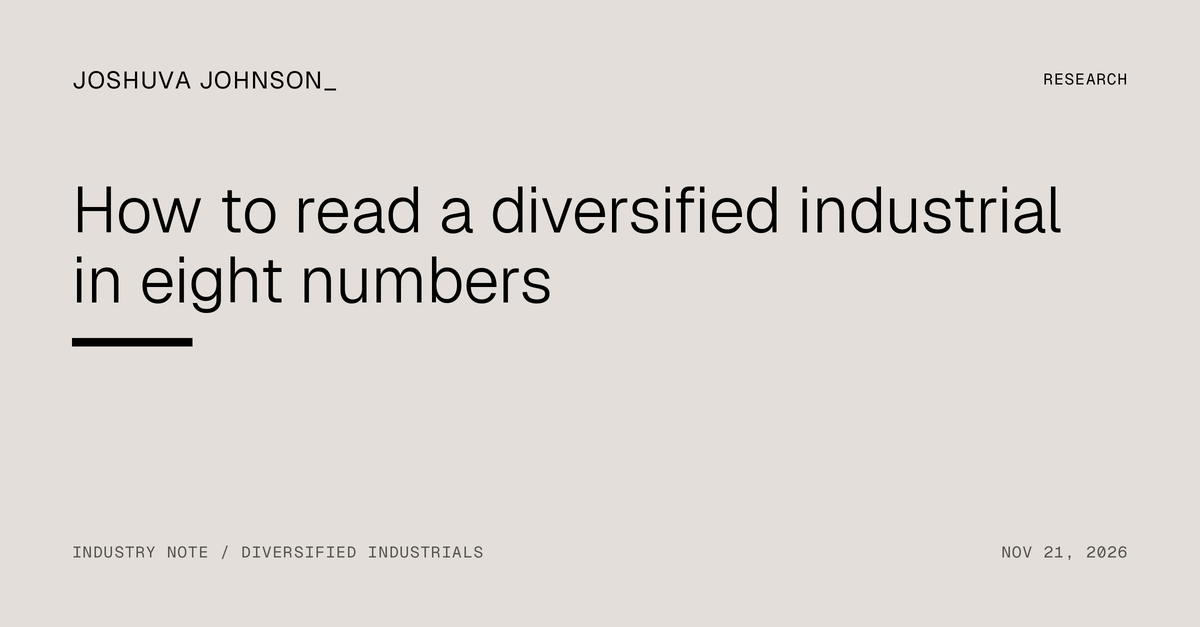
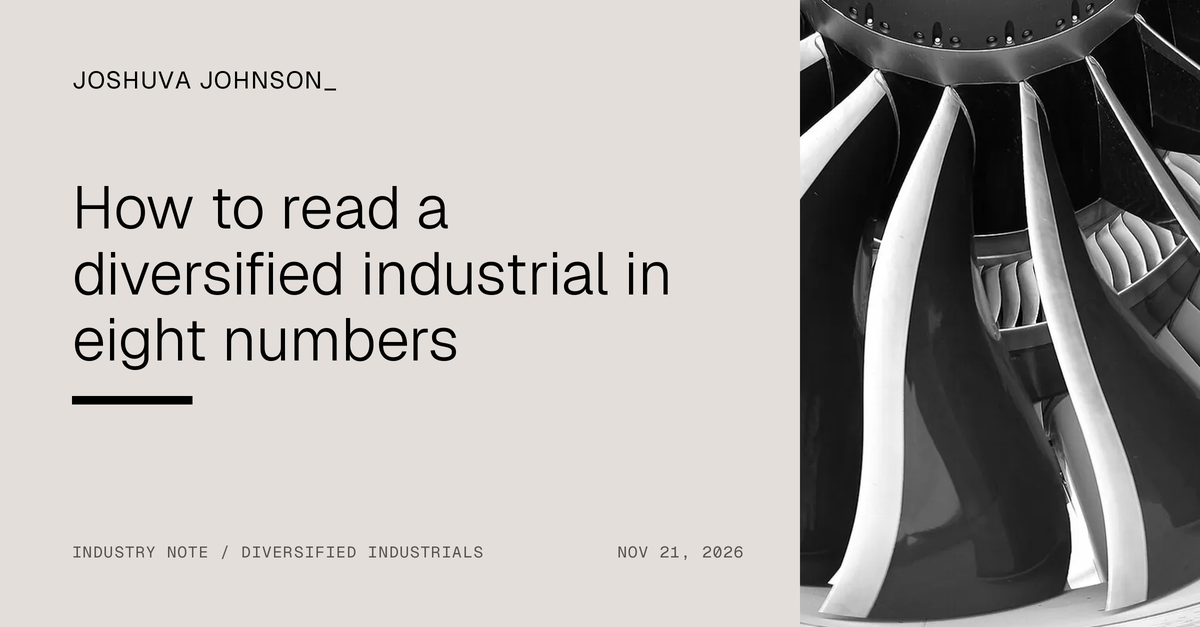
A photo for every piece, credited; link previews redrawn
- Each article opens with a photo from Wikimedia Commons (under the key figures on pitches), black and white until hovered or tapped, with photographer and licence linked underneath; 'cropped' noted where the licence asks for changes to be marked
- Photos run wider than the text column on desktop and edge to edge on phones
- Link previews: articles show their photo, pitches keep the rating panel, About shows the portrait, home shows THOUGHTS_ beside the home photo

Claude-Session: https://claude.ai/code/session_01Dc4KQMDr4px4SMpMrXU2Lh

diff --git a/thoughts/rates-sell-off/index.html b/thoughts/rates-sell-off/index.html
@@ -48,6 +48,7 @@
   <h1>The price of risk, not the price of money</h1>
   <p class="dek">The 10-year Treasury yield fell this week, and the S&amp;P 500 dropped 8.6% anyway. Investors are charging more to hold risk, and the AI trade sits in the middle of it.</p>
   <p class="byline"><b>Joshuva Johnson</b><time datetime="2026-11-22">Nov 22, 2026</time></p>
+<figure class="lead photo"><img src="/assets/img/lead/thoughts-rates-sell-off-1200.webp" srcset="/assets/img/lead/thoughts-rates-sell-off-600.webp 600w, /assets/img/lead/thoughts-rates-sell-off-1200.webp 1200w" sizes="(max-width: 640px) 100vw, 880px" width="1200" height="800" alt="The columns of the New York Stock Exchange on Broad Street"><figcaption>Photo: <a href="https://commons.wikimedia.org/wiki/File:Sign_of_the_New_York_Stock_Exchange,_Broad_Street.jpg">Billie Grace Ward</a>, <a href="https://creativecommons.org/publicdomain/zero/1.0/">CC0</a></figcaption></figure>
 <div class="prose">
 <p>When I first sat down to write about this sell-off, I had a tidy explanation. The 10-year Treasury yield went from under 4% in February to above 5% in October. Every stock is a claim on future cash flows, and when the rate you discount those cash flows at rises by more than a full point, the companies whose cash flows sit furthest in the future get hit hardest. The AI names are about as far out on that curve as the market gets, so it seemed natural that they would fall first. I still think that story explains a good part of 2026. It does not explain this week.</p>
 <p>Between the close on November 13 and the close on November 20, the S&amp;P 500 fell 8.6%, its worst week since April 2025, and finished Friday at 6,910, more than 10% below its October 6 record. That makes it a correction by the usual definition. The Nasdaq lost 10% and gave back everything it had gained in 2026. Over the same week, the 10-year yield fell from about 5.15% to 4.92%. If the price of money were doing the selling, lower yields should have cushioned stocks. Instead investors sold stocks and bought Treasuries, which is what a flight to safety looks like. In this piece, I want to separate the two parts of the rate we use to value stocks, estimate which one moved, and think through what that means for the AI trade.</p>

diff --git a/research/honeywell/index.html b/research/honeywell/index.html
@@ -49,6 +49,7 @@
   <p class="dek">Honeywell is now a pure automation company growing 4% to 6% a year. Even on management&#x27;s own targets I value it at about $171 a share, 20% below the price. The market is discounting it like a safer business than it is.</p>
   <p class="byline"><b>Joshuva Johnson</b><time datetime="2026-11-22">Nov 22, 2026</time></p>
 <div class="kf dark"><div><b>Sell</b><span>Rating</span></div><div><b>$171</b><span>Value per share, probability-weighted</span></div><div><b>−20%</b><span>Value vs price</span></div><div><b>$212.64</b><span>Price at Nov 20, 2026 close</span></div></div>
+<figure class="lead photo"><img src="/assets/img/lead/research-honeywell-1200.webp" srcset="/assets/img/lead/research-honeywell-600.webp 600w, /assets/img/lead/research-honeywell-1200.webp 1200w" sizes="(max-width: 640px) 100vw, 880px" width="1200" height="800" alt="Three valve wheels on an industrial pipe manifold"><figcaption>Photo: <a href="https://commons.wikimedia.org/wiki/File:Duisburg,_Landschaftspark_Duisburg-Nord_--_2020_--_7803-5.jpg">Dietmar Rabich</a>, <a href="https://creativecommons.org/licenses/by-sa/4.0/">CC BY-SA 4.0</a>, cropped</figcaption></figure>
 <div class="prose">
 <p>For most of my life, Honeywell was the textbook conglomerate: thermostats, jet engines, refrigerants, warehouse robots and quantum computers under one ticker. That company no longer exists. Solstice Advanced Materials was spun off in October 2025, Honeywell Aerospace in June 2026, and the warehouse and productivity businesses were sold this year. What is left, Honeywell Technologies, sells automation for buildings, process plants and factories, and it just reported its first quarter as a standalone company. I wrote about <a href="/research/honeywell-breakup/">how the breakup was done</a> separately. This piece asks the harder question: now that the pieces are apart, is the one still called Honeywell worth what the market is paying for it? I work through it in the five steps I use for every company.</p>
 

diff --git a/research/quantinuum/index.html b/research/quantinuum/index.html
@@ -49,6 +49,7 @@
   <p class="dek">Quantinuum has $32 million of revenue, $1.9 billion of cash and some of the best quantum hardware anyone has built. Valuing it means pricing a story with a real chance of failure. I get about $26 a share, close to the price. Hold.</p>
   <p class="byline"><b>Joshuva Johnson</b><time datetime="2026-11-22">Nov 22, 2026</time></p>
 <div class="kf dark"><div><b>Hold</b><span>Rating</span></div><div><b>$25.78</b><span>Value per share, probability-weighted</span></div><div><b>−7%</b><span>Value vs price</span></div><div><b>$27.74</b><span>Price at Nov 20, 2026 close</span></div></div>
+<figure class="lead photo"><img src="/assets/img/lead/research-quantinuum-1200.webp" srcset="/assets/img/lead/research-quantinuum-600.webp 600w, /assets/img/lead/research-quantinuum-1200.webp 1200w" sizes="(max-width: 640px) 100vw, 880px" width="1200" height="800" alt="An ion trap chip used in quantum computing research"><figcaption>Photo: <a href="https://commons.wikimedia.org/wiki/File:Quantum_Computing;_Ion_Trapping_(5941055642).jpg">National Institute of Standards and Technology</a>, public domain</figcaption></figure>
 <div class="prose">
 <p>Quantinuum went public on June 4 at $60 a share, the first initial public offering of a quantum computing company, and closed on November 20 at $27.74. In between, it reported that its Helios system had set a record for the accuracy of error-corrected operations, raised its revenue outlook, and signed a deal with Oracle. The stock fell anyway, with everything else that is priced on a distant future. I find young companies like this the most interesting to value and the easiest to get wrong, because there are almost no historical numbers to lean on. What you have instead is a story, and the discipline is to turn that story into revenues, margins and reinvestment, and then to be honest about the chance that it doesn't happen at all. That is what I do here, in the same five steps I use for every company.</p>
 

diff --git a/research/eaton/index.html b/research/eaton/index.html
@@ -49,6 +49,7 @@
   <p class="dek">The stock is 35% below its high, even after a record quarter and a third guidance raise. I value it at about $281 a share, 10% below the price. Hold, turning to Buy below about $245.</p>
   <p class="byline"><b>Joshuva Johnson</b><time datetime="2026-11-22">Nov 22, 2026</time></p>
 <div class="kf dark"><div><b>Hold</b><span>Rating</span></div><div><b>$281</b><span>Value per share, probability-weighted</span></div><div><b>−10%</b><span>Value vs price</span></div><div><b>$311.33</b><span>Price at Nov 20, 2026 close</span></div></div>
+<figure class="lead photo"><img src="/assets/img/lead/research-eaton-1200.webp" srcset="/assets/img/lead/research-eaton-600.webp 600w, /assets/img/lead/research-eaton-1200.webp 1200w" sizes="(max-width: 640px) 100vw, 880px" width="1200" height="800" alt="The switchyard of a 750-kilovolt electrical substation"><figcaption>Photo: <a href="https://commons.wikimedia.org/wiki/File:Switchyard_of_electric_substation_750kV.png">Novoklimov</a>, <a href="https://creativecommons.org/licenses/by/4.0/">CC BY 4.0</a>, cropped</figcaption></figure>
 <div class="prose">
 <p>Eaton is one of the cleanest ways to own the electrical side of the AI build-out, and for most of the past two years the market treated it that way. On November 3, the company reported a record third quarter and raised its full-year guidance for the third time. The stock fell almost 10% the next day, kept falling, and closed at $311.33 on November 20, a new 52-week low and 35% below its high of $478. When a good company's stock falls that far, the temptation is to buy it because it is cheaper than it was. But "cheaper than it was" is a statement about price. Whether it is cheap is a question about value, and the only way I know to answer it is to work through the business from the industry down. That is what I do here, in the same five steps I use for every company.</p>
 

diff --git a/research/copper/index.html b/research/copper/index.html
@@ -49,6 +49,7 @@
   <p class="dek">Records in September on mine disruptions and zero smelting fees. November&#x27;s sell-off knocked prices back. The supply problem didn&#x27;t go anywhere.</p>
   <p class="byline"><b>Joshuva Johnson</b><time datetime="2026-11-21">Nov 21, 2026</time></p>
 <div class="kf"><div><b>~$14,875</b><span>LME record per tonne, Sept 10, 2026</span></div><div><b>$13,210</b><span>Low on Nov 16, the weakest since July</span></div><div><b>$0</b><span>2026 benchmark smelting charge per tonne</span></div><div><b>~600kt</b><span>ING's 2026 refined deficit estimate</span></div></div>
+<figure class="lead photo"><img src="/assets/img/lead/research-copper-1200.webp" srcset="/assets/img/lead/research-copper-600.webp 600w, /assets/img/lead/research-copper-1200.webp 1200w" sizes="(max-width: 640px) 100vw, 880px" width="1200" height="800" alt="Terraced walls of the Chuquicamata open-pit copper mine in Chile"><figcaption>Photo: <a href="https://commons.wikimedia.org/wiki/File:Mina_de_Chuquicamata,_Calama,_Chile,_2016-02-01,_DD_126.JPG">Diego Delso</a>, <a href="https://creativecommons.org/licenses/by-sa/4.0/">CC BY-SA 4.0</a>, cropped</figcaption></figure>
 <div class="prose">
 <p>Copper set a record of about $14,875 a tonne on the London Metal Exchange on September 10. By November 16, three-month copper had slipped to $13,210, the lowest since early July and about 10% off the high. Two days later it fell 4.6% in a day, its steepest drop in eight months, as the AI sell-off, a stronger dollar and worries about Chinese demand piled up.</p>
 <p>The demand scare is real. But the reasons copper set records in the first place haven't gone anywhere.</p>

diff --git a/research/auto-abs/index.html b/research/auto-abs/index.html
@@ -49,6 +49,7 @@
   <p class="dek">Securitization turns thousands of monthly car payments into rated bonds. How the machine works, and where 2026&#x27;s stress is showing up.</p>
   <p class="byline"><b>Joshuva Johnson</b><time datetime="2026-11-21">Nov 21, 2026</time></p>
 <div class="kf"><div><b>$127B</b><span>U.S. auto ABS issued in 2025, a record</span></div><div><b>6.90%</b><span>Record subprime 60+ day delinquency, Jan 2026</span></div><div><b>5.80%</b><span>Subprime 60+ day delinquency, mid-2026</span></div><div><b>81.5%</b><span>Share of delinquencies from the riskiest 37% of balances</span></div></div>
+<figure class="lead photo"><img src="/assets/img/lead/research-auto-abs-1200.webp" srcset="/assets/img/lead/research-auto-abs-600.webp 600w, /assets/img/lead/research-auto-abs-1200.webp 1200w" sizes="(max-width: 640px) 100vw, 880px" width="1200" height="800" alt="Light trails from traffic on a highway at night"><figcaption>Photo: <a href="https://commons.wikimedia.org/wiki/File:Light_Trails_On_The_Highway_(60829112).jpeg">Makia Minich</a>, <a href="https://creativecommons.org/licenses/by-sa/3.0/">CC BY-SA 3.0</a>, cropped</figcaption></figure>
 <div class="prose">
 <p>Securitization turns thousands of monthly car payments into rated bonds. It's one of the quieter corners of finance and one of the most important: U.S. auto loan ABS issuance reached a record $127 billion in 2025, the second record year in a row. Here's how the machine works, and where this year's stress is showing up.</p>
 <h2>How a car loan becomes a bond</h2>

diff --git a/research/honeywell-breakup/index.html b/research/honeywell-breakup/index.html
@@ -49,6 +49,7 @@
   <p class="dek">The separation is done. The verdict comes with the first full year of standalone numbers for Honeywell Technologies, Honeywell Aerospace and Solstice.</p>
   <p class="byline"><b>Joshuva Johnson</b><time datetime="2026-11-21">Nov 21, 2026</time></p>
 <div class="kf"><div><b>3</b><span>Independent companies from one</span></div><div><b>Oct 30, 2025</b><span>Solstice Advanced Materials spun off</span></div><div><b>Jun 29, 2026</b><span>Honeywell Aerospace spun off</span></div><div><b>HON, HONA, SOLS</b><span>Tickers today</span></div></div>
+<figure class="lead photo"><img src="/assets/img/lead/research-honeywell-breakup-1200.webp" srcset="/assets/img/lead/research-honeywell-breakup-600.webp 600w, /assets/img/lead/research-honeywell-breakup-1200.webp 1200w" sizes="(max-width: 640px) 100vw, 880px" width="1200" height="800" alt="A ring of gas turbine blades"><figcaption>Photo: <a href="https://commons.wikimedia.org/wiki/File:Gas_Turbine_Blade.jpg">Pro-Per Energy Services</a>, <a href="https://creativecommons.org/licenses/by-sa/4.0/">CC BY-SA 4.0</a>, cropped</figcaption></figure>
 <div class="prose">
 <p>Honeywell's breakup is finished. What began as a plan announced in October 2024 to spin off its Advanced Materials business ended on June 29, 2026, when Honeywell Aerospace started trading on its own. The company left behind, renamed Honeywell Technologies, is now a pure-play automation business across buildings, process and industrial markets.</p>
 <h2>What happened, step by step</h2>

diff --git a/thoughts/bonus-season/index.html b/thoughts/bonus-season/index.html
@@ -48,6 +48,7 @@
   <h1>Wall Street is about to get paid for a market that just changed</h1>
   <p class="dek">Johnson Associates expects bonuses to rise for a third straight year, led by equity traders and underwriters. The harder question is whether the deals that paid for them keep coming at today&#x27;s rates.</p>
   <p class="byline"><b>Joshuva Johnson</b><time datetime="2026-11-21">Nov 21, 2026</time></p>
+<figure class="lead photo"><img src="/assets/img/lead/thoughts-bonus-season-1200.webp" srcset="/assets/img/lead/thoughts-bonus-season-600.webp 600w, /assets/img/lead/thoughts-bonus-season-1200.webp 1200w" sizes="(max-width: 640px) 100vw, 880px" width="1200" height="800" alt="A Wall Street street sign against a glass office tower"><figcaption>Photo: <a href="https://commons.wikimedia.org/wiki/File:Wall-Street-Sign-New-York.jpg">Acediscovery</a>, <a href="https://creativecommons.org/licenses/by/4.0/">CC BY 4.0</a>, cropped</figcaption></figure>
 <div class="prose">
 <p>Johnson Associates' latest forecast has Wall Street bonuses rising for a third straight year, with increases in 20 of the 21 job categories it tracks. Equity traders and underwriters lead, with jumps of 20% to 30% or more.</p>
 <p>It's earned. Global investment banking fees reached $99.4 billion in the first nine months of the year, up 9% and the best since 2021. First-half M&amp;A set a record at about $2.8 trillion of announced deals, nearly half of it in megadeals above $10 billion.</p>

diff --git a/thoughts/ai-bottleneck/index.html b/thoughts/ai-bottleneck/index.html
@@ -48,6 +48,7 @@
   <h1>Microsoft just told you where the AI bottleneck is</h1>
   <p class="dek">Microsoft is spending as fast as it can and still running short of AI capacity. The holdup is buildings, grid connections and the electrical gear in between.</p>
   <p class="byline"><b>Joshuva Johnson</b><time datetime="2026-11-21">Nov 21, 2026</time></p>
+<figure class="lead photo"><img src="/assets/img/lead/thoughts-ai-bottleneck-1200.webp" srcset="/assets/img/lead/thoughts-ai-bottleneck-600.webp 600w, /assets/img/lead/thoughts-ai-bottleneck-1200.webp 1200w" sizes="(max-width: 640px) 100vw, 880px" width="1200" height="800" alt="Rows of server racks in a data center"><figcaption>Photo: <a href="https://commons.wikimedia.org/wiki/File:Racks_Amravati_Data_Center.jpg">PiDatacenters</a>, <a href="https://creativecommons.org/licenses/by-sa/4.0/">CC BY-SA 4.0</a>, cropped</figcaption></figure>
 <div class="prose">
 <p>Buried in Microsoft's October earnings call was a line most people skipped. The company trimmed its calendar 2026 capital spending forecast to about $170 billion, down from $175 billion. Not because demand slowed. Because capacity it had contracted from third parties, GPU-as-a-service deals, slipped into the second half of its fiscal year.</p>
 <p>The September quarter tells the same story. Microsoft spent $45.2 billion on capex, about $6.5 billion less than analysts expected, and still roughly 30% more than a year earlier.</p>

diff --git a/research/stress-test-2026/index.html b/research/stress-test-2026/index.html
@@ -49,6 +49,7 @@
   <p class="dek">Thirty-two banks, $708 billion of hypothetical losses and $719 billion of pre-provision net revenue to absorb them. How to read the results.</p>
   <p class="byline"><b>Joshuva Johnson</b><time datetime="2026-11-21">Nov 21, 2026</time></p>
 <div class="kf"><div><b>32</b><span>Banks tested</span></div><div><b>$708B</b><span>Projected losses over nine quarters</span></div><div><b>$719B</b><span>Pre-provision net revenue</span></div><div><b>1.6 pts</b><span>Aggregate CET1 decline</span></div></div>
+<figure class="lead photo"><img src="/assets/img/lead/research-stress-test-2026-1200.webp" srcset="/assets/img/lead/research-stress-test-2026-600.webp 600w, /assets/img/lead/research-stress-test-2026-1200.webp 1200w" sizes="(max-width: 640px) 100vw, 880px" width="1200" height="800" alt="The Eccles Building, headquarters of the Federal Reserve Board in Washington"><figcaption>Photo: <a href="https://commons.wikimedia.org/wiki/File:Eccles_Building_(26088200676).jpg">Federal Reserve</a>, public domain</figcaption></figure>
 <div class="prose">
 <p>The Federal Reserve's 2026 stress test ran 32 large banks through a severe global recession: unemployment peaking at 10%, house prices down 30% and commercial real estate prices down 39%. All 32 stayed above their minimum capital requirements.</p>
 <p>The headline everyone quotes is the capital ratio. The more useful number is how the losses were paid for.</p>

diff --git a/thoughts/private-credit-defaults/index.html b/thoughts/private-credit-defaults/index.html
@@ -48,6 +48,7 @@
   <h1>Almost half of private credit&#x27;s defaults never reach a courtroom</h1>
   <p class="dek">Fitch&#x27;s default rate has been at or above 6% since April. Many of those borrowers now pay interest with more debt instead of cash, which delays the losses without avoiding them.</p>
   <p class="byline"><b>Joshuva Johnson</b><time datetime="2026-11-21">Nov 21, 2026</time></p>
+<figure class="lead photo"><img src="/assets/img/lead/thoughts-private-credit-defaults-1200.webp" srcset="/assets/img/lead/thoughts-private-credit-defaults-600.webp 600w, /assets/img/lead/thoughts-private-credit-defaults-1200.webp 1200w" sizes="(max-width: 640px) 100vw, 880px" width="1200" height="800" alt="The round steel door of an old bank vault"><figcaption>Photo: <a href="https://commons.wikimedia.org/wiki/File:Bouldering_Project_(old_University_National_Bank)_30_-_sauna_(vault)_area.jpg">Joe Mabel</a>, <a href="https://creativecommons.org/licenses/by-sa/4.0/">CC BY-SA 4.0</a>, cropped</figcaption></figure>
 <div class="prose">
 <p>Fitch's U.S. private credit default rate was 6.2% for the twelve months through October, barely off September's 6.3%. It has stayed at or above 6% since April, when it first set a record.</p>
 <p>That sounds alarming. What's underneath it is more interesting.</p>

diff --git a/research/reading-industrials/index.html b/research/reading-industrials/index.html
@@ -48,6 +48,7 @@
   <h1>How to read a diversified industrial in eight numbers</h1>
   <p class="dek">Orders, backlog, organic growth, margins and cash. A field guide to the sector, worked through with Eaton&#x27;s latest quarter.</p>
   <p class="byline"><b>Joshuva Johnson</b><time datetime="2026-11-21">Nov 21, 2026</time></p>
+<figure class="lead photo"><img src="/assets/img/lead/research-reading-industrials-1200.webp" srcset="/assets/img/lead/research-reading-industrials-600.webp 600w, /assets/img/lead/research-reading-industrials-1200.webp 1200w" sizes="(max-width: 640px) 100vw, 880px" width="1200" height="800" alt="Fan blades and inlet guide vanes of a jet engine"><figcaption>Photo: <a href="https://commons.wikimedia.org/wiki/File:Fan_blades_and_inlet_guide_vanes_of_GEnx-2B.jpg">Olivier Cleynen</a>, <a href="https://creativecommons.org/licenses/by-sa/3.0/">CC BY-SA 3.0</a>, cropped</figcaption></figure>
 <div class="prose">
 <p>Diversified industrials are hard to read from the income statement alone. They sell into dozens of end markets, take orders months or years before they ship, and buy and sell businesses constantly. Here are the eight numbers that do most of the work, using Eaton's third quarter of 2026 as the worked example.</p>
 <h2>1. Organic growth</h2>
